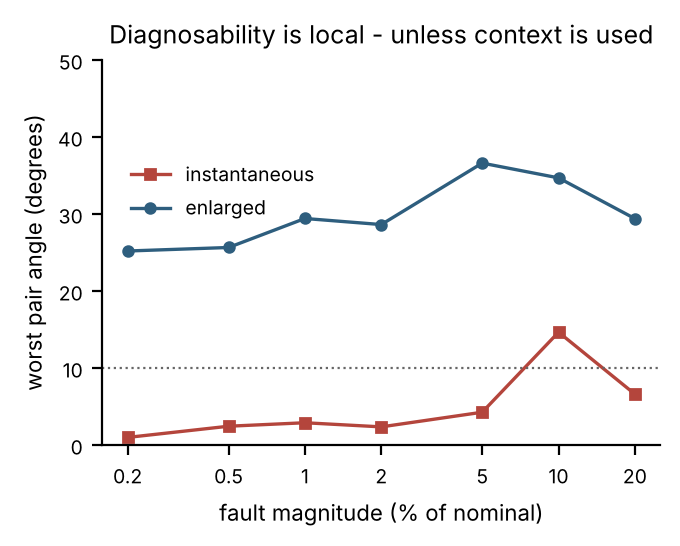
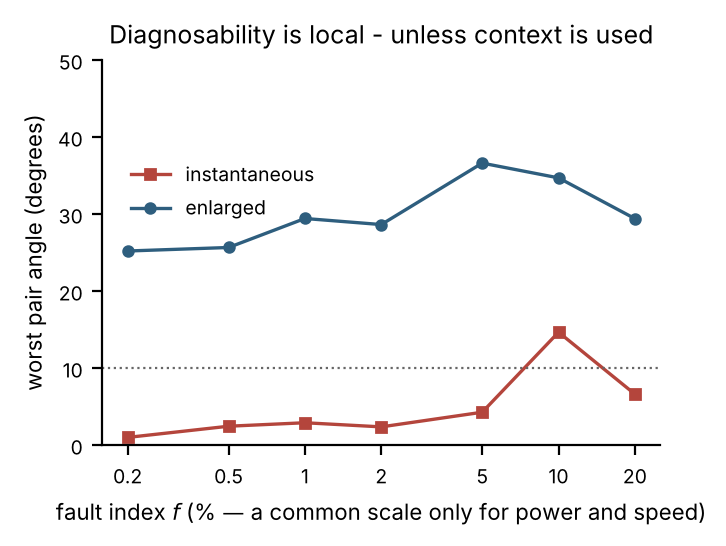
Record what a fault magnitude means, and where the scale convention leaks
Amit asked how layer, gas and geometry faults are quantified. Power and speed
are physical fractions; the other three are dimensionless severity indices whose
meaning comes entirely from the coupling constant each multiplies, set so that
f = 1 is roughly the fault at its physical limit.

The consequence worth recording is that a fault index and its coupling are
identifiable only as a product, so the scale is a convention. Harmless for every
angle, rank and condition number in the study, since scaling a Jacobian column
does not change its direction - the coupling sweep shows this exactly.

It leaks in two places. Detectability was already compromised by the unused
noise figures and the two limitations should be stated together. And the
finite-magnitude study gives every fault the same f, which is a real 5% for
power but a 1.5% absorptivity change for layer, so those rows do not compare
equal physical severities. Fig 3's axis relabelled from "% of nominal" to a
fault index. The conclusion drawn from that study is unaffected, since it holds
at every point tested, but the paper must not say "at a 5% fault, pair X
separates and pair Y does not" - comparisons across pairs at fixed f are not
physically meaningful.

Claude-Session: https://claude.ai/code/session_011UD3ZUY1s5CaPP8QpBxPVB

diff --git a/cirfcms2027/src/faults.py b/cirfcms2027/src/faults.py
@@ -47,7 +47,39 @@ FAULT_NAMES = ("power", "speed", "layer", "gas", "geometry")
 
 @dataclass(frozen=True)
 class FaultState:
-    """Fractional deviations from the healthy process. All zero = nominal."""
+    """Fractional deviations from the healthy process. All zero = nominal.
+
+    What a magnitude means differs between faults, and the difference matters.
+
+    `power` and `speed` are physical fractions: 0.05 is 5% more power, or 5%
+    faster. They multiply the quantity directly and need no convention.
+
+    `layer`, `gas` and `geometry` are dimensionless **severity indices**. They
+    have no unit of their own - their physical meaning comes entirely from the
+    coupling constant each one multiplies. The couplings are set so that f = 1
+    is roughly the fault at its physical limit:
+
+        f_layer = 1     absorptivity -25.9%, conductivity +64.9%
+                        (about what losing the powder's trapping would do)
+        f_gas = 1       beam attenuated 18.1% (a severe plume)
+        f_geometry = 1  local preheat +600 K (a thin wall running hot)
+
+    So f reads as "fraction of the way to the worst case".
+
+    **A fault index and its coupling are identifiable only as a product.**
+    Doubling the coupling and halving f gives a numerically identical model, so
+    the scale is a convention. That is harmless for isolability - scaling a
+    Jacobian column does not change its direction, and angles see only
+    direction, which the coupling sweep confirms exactly. It is not harmless
+    for two things, both of which must be stated in the paper:
+
+      - Detectability, which is an absolute question and so is not well posed
+        here. See also the deliberately-unused noise figures.
+      - The finite-magnitude study, where every fault is given the same f. At
+        f = 0.05 that is a real 5% for power but only a 1.5% absorptivity change
+        for layer and 1.0% for gas, so those rows do **not** compare equal
+        physical severities. The magnitude axis is an index, not a common scale.
+    """
 
     power: float = 0.0
     speed: float = 0.0

diff --git a/cirfcms2027/src/figures.py b/cirfcms2027/src/figures.py
@@ -124,7 +124,7 @@ def fig3(curves, nominal, plan):
     ax.semilogx(mags * 100, wb, "o-", color=C_BIG, ms=3.5, lw=1.2,
                 label="enlarged")
     ax.axhline(10, ls=":", lw=0.8, color="0.4")
-    ax.set_xlabel("fault magnitude (% of nominal)")
+    ax.set_xlabel("fault index $f$ (% — a common scale only for power and speed)")
     ax.set_ylabel("worst pair angle (degrees)")
     ax.set_ylim(0, 50)
     ax.set_xticks(mags * 100, [f"{m*100:g}" for m in mags])

diff --git a/cirfcms2027/05-risks-and-decisions.md b/cirfcms2027/05-risks-and-decisions.md
@@ -1088,6 +1088,56 @@ far. It also turns the headline recommendation from an empirical observation int
 one with a stated mechanism, which is what makes it publishable rather than
 merely true.
 
+## WHAT A FAULT MAGNITUDE MEANS - a scale convention, and where it leaks
+
+Raised by Amit. `power` and `speed` are physical fractions: 0.05 is 5% more
+power. `layer`, `gas` and `geometry` are not - they are dimensionless severity
+indices whose meaning comes entirely from the coupling constant each multiplies.
+
+| f | layer | gas | geometry |
+|---|---|---|---|
+| 0.05 | absorptivity -1.5%, conductivity +2.5% | absorptivity -1.0% | preheat +30 K |
+| 0.20 | -5.8%, +10.5% | -3.9% | +120 K |
+| 1.00 | -25.9%, +64.9% | -18.1% | +600 K |
+
+The couplings were set so f = 1 is roughly the fault at its physical limit -
+powder absorptivity is near 0.4 against ~0.3 for bare solid, so -26% is about
+what losing the trapping would do; 18% beam attenuation is a severe plume;
++600 K is a thin wall running hot. So f reads as "fraction of the way to the
+worst case".
+
+**A fault index and its coupling are identifiable only as a product.** Double
+the coupling and halve f and the model is numerically identical. The scale is a
+convention, not a measurement.
+
+### Where that is harmless
+
+Isolability. Scaling a Jacobian column does not change its direction, and angles
+see only direction. The coupling sweep demonstrates it exactly: scaling
+`gas_to_attenuation` by 2.5 scaled the gas column by 2.5000 in every sensor and
+left the angle at 0.00 deg. Every angle, rank and condition number in the study
+is immune.
+
+### Where it leaks, and must be said in the paper
+
+**Detectability.** An absolute question, so not well posed under an arbitrary
+scale. Already compromised anyway by the deliberately-unused noise figures, so
+nothing new is lost - but the two limitations should be stated together rather
+than separately, since they bite the same claim.
+
+**The finite-magnitude study.** Every fault is given the same f. At f = 0.05
+that is a real 5% for power but a 1.5% absorptivity change for layer and 1.0%
+for gas. So those rows do **not** compare equal physical severities, and fig3's
+axis is an index rather than a common scale. Relabelled accordingly.
+
+This does not undermine the finite-magnitude conclusion, which is that the
+enlarged result stays rank 5 and stays in the 22 to 49 deg band across the whole
+sweep while the instantaneous one swings between 0 and 7 deg. That holds
+whatever the per-fault scale, because it holds at every point tested. What it
+does undermine is any sentence of the form "at a 5% fault, pair X is separable
+and pair Y is not" - comparisons *across pairs at fixed f* are not physically
+meaningful. The paper must not make one.
+
 ## The three real risks
 
 **Thermal model does not match published melt pool dimensions.**
